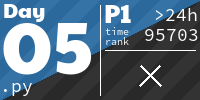
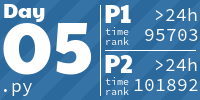
Complete Day 5

diff --git a/day_5.py b/day_5.py
@@ -17,25 +17,26 @@ def get_middle_index(update_list: list) -> int:
         middle_num-=0.5
     return int(middle_num)
 
-def part_1(test: bool=False, part_2: bool=False) -> int:
+def find_updates_out_of_order(test: bool=False, part_2: bool=False) -> tuple[int,list]:
     """
     Find the number of pages that are out of order.
+
+    If part_2 is True, return a generator that yields the page that is out of order.
     """
     page_order,page_order_per_update=parse_input(test)
     page_order_before_first:dict=defaultdict(lambda:[])
     page_order_after_first:dict=defaultdict(lambda:[])
+    unordered_updates=[]
     for before,after in page_order:
         page_order_before_first[before].append(after)
         page_order_after_first[after].append(before)
     safe_updates=0
     for update in page_order_per_update:
-        if update==[75, 97, 47, 61, 53]:
-            pass
         update_order_dict:dict=defaultdict(lambda:[])
         for x,y in enumerate(update,1):
             update_order_dict[y].append(x)
-        safe_so_far=True
         
+        safe_so_far=True
         for page_num,page in enumerate(update,1):
             if safe_so_far and (nums_must_come_after:=page_order_before_first.get(page)):
                 for num_must_come_after in nums_must_come_after:
@@ -45,6 +46,8 @@ def part_1(test: bool=False, part_2: bool=False) -> int:
                                 safe_so_far=True
                             else:
                                 safe_so_far=False
+                                if part_2:
+                                    unordered_updates.append(update)
                                 break
 
             if safe_so_far and (nums_must_come_before:=page_order_after_first.get(page)):
@@ -55,6 +58,8 @@ def part_1(test: bool=False, part_2: bool=False) -> int:
                                 safe_so_far=True
                             else:
                                 safe_so_far=False
+                                if part_2:
+                                    unordered_updates.append(update)
                                 break
                         
         if safe_so_far:    
@@ -62,9 +67,34 @@ def part_1(test: bool=False, part_2: bool=False) -> int:
             safe_updates+=update[middle_num]
 
 
-    return safe_updates
+    return safe_updates,unordered_updates
             
 
+def apply_constraints(wrongly_ordered: list, constraints: dict) -> list:
+    changed = True
+    while changed:
+        changed = False
+        for i in range(len(wrongly_ordered) - 1):
+            for key, values in constraints.items():
+                if wrongly_ordered[i] == key and wrongly_ordered[i + 1] in values:
+                    # Swap elements to satisfy the constraint
+                    wrongly_ordered[i], wrongly_ordered[i + 1] = wrongly_ordered[i + 1], wrongly_ordered[i]
+                    changed = True
+    return wrongly_ordered
 
-assert part_1(test=True)==143
-print(part_1(test=False))
+def fix_page_order(test: bool=False) -> int:
+    """
+    Get wrongly ordered updates, fix the page order and sum middle numbers.
+    """
+    page_order,page_order_per_update=parse_input(test)
+    page_order_before_first:dict=defaultdict(lambda:[])
+    for before,after in page_order:
+        page_order_before_first[before].append(after)
+    middle_nums=[]
+    for update in find_updates_out_of_order(test=test,part_2=True)[1]:
+        fixed_update=apply_constraints(update,page_order_before_first)
+        middle_nums.append(fixed_update[get_middle_index(fixed_update)])
+    return sum(middle_nums)
+
+assert fix_page_order(test=True)==123
+# print(fix_page_order(test=False))

diff --git a/README.md b/README.md
@@ -1,6 +1,6 @@
 <!-- AOC TILES BEGIN -->
 <h1 align="center">
-  2024 - 31 ⭐ - Python
+  2024 - 32 ⭐ - Python
 </h1>
 <a href="day_1.py">
   <img src=".aoc_tiles/tiles/2024/01.png" width="161px">
